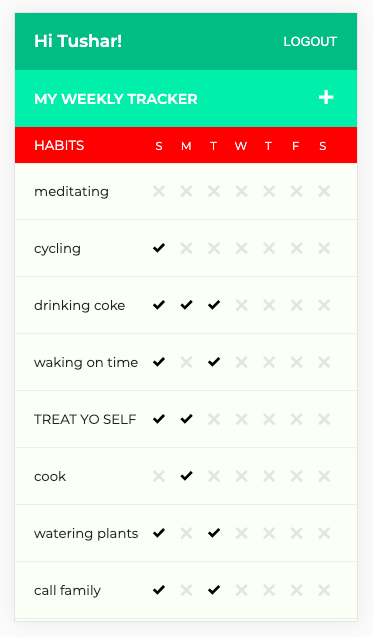
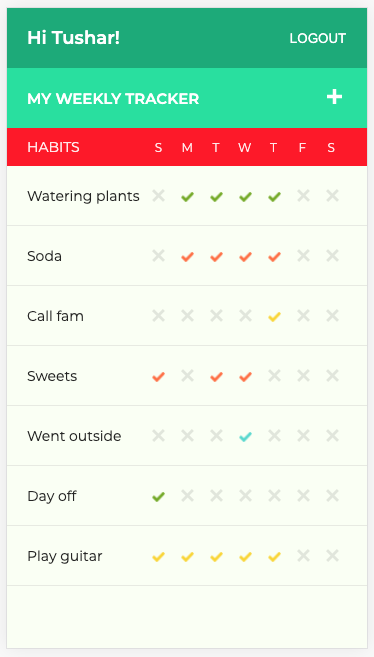
readme + wireframe

diff --git a/README.md b/README.md
@@ -19,11 +19,10 @@ The project adheres to the MVC file structure (Models, Views, Controllers) and h
 ### Features:
 1. User authentication
 2. Session management
-3. CRUD - Create, Read, Update, Delete
-4. Add (/edit/delete) habits to track
-5. Color picker for each habit
-6. Track habits weekly with a simple interface
-7. See a longer term snapshot for each habit
+3. CRUD (Create, Read, Update, Delete) habits ot track
+4. Assign color for a habit
+5. Track habits weekly 
+6. See a longer term snapshot for each habit
 
 ### User auth page
 ![](/wireframes/reflekt-w1.png) 
